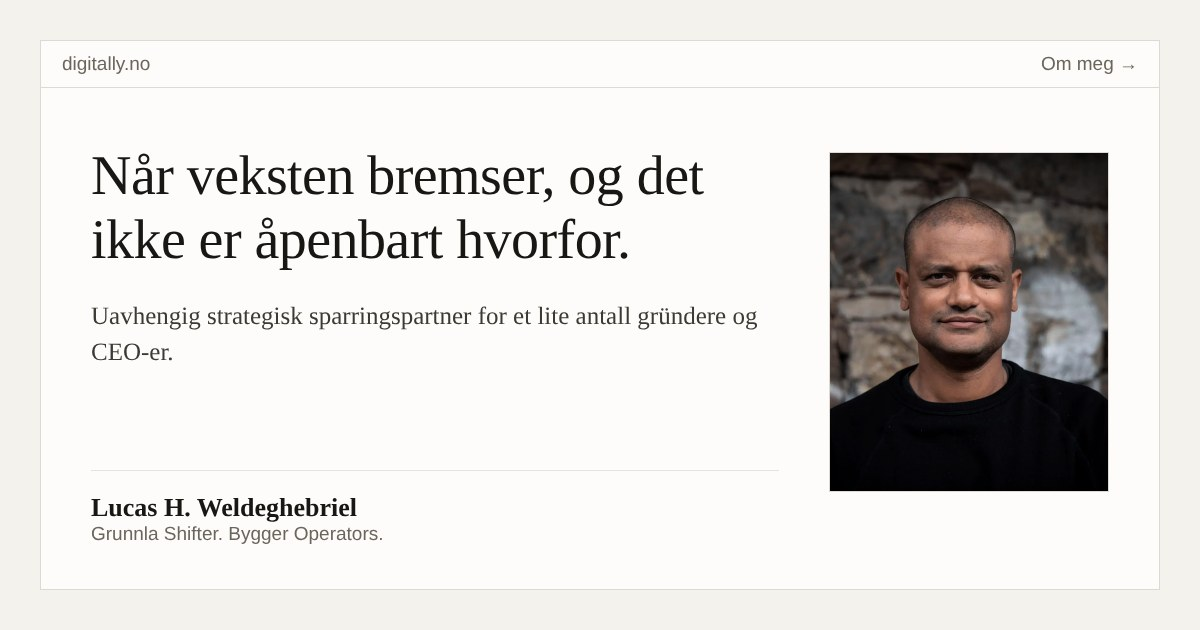
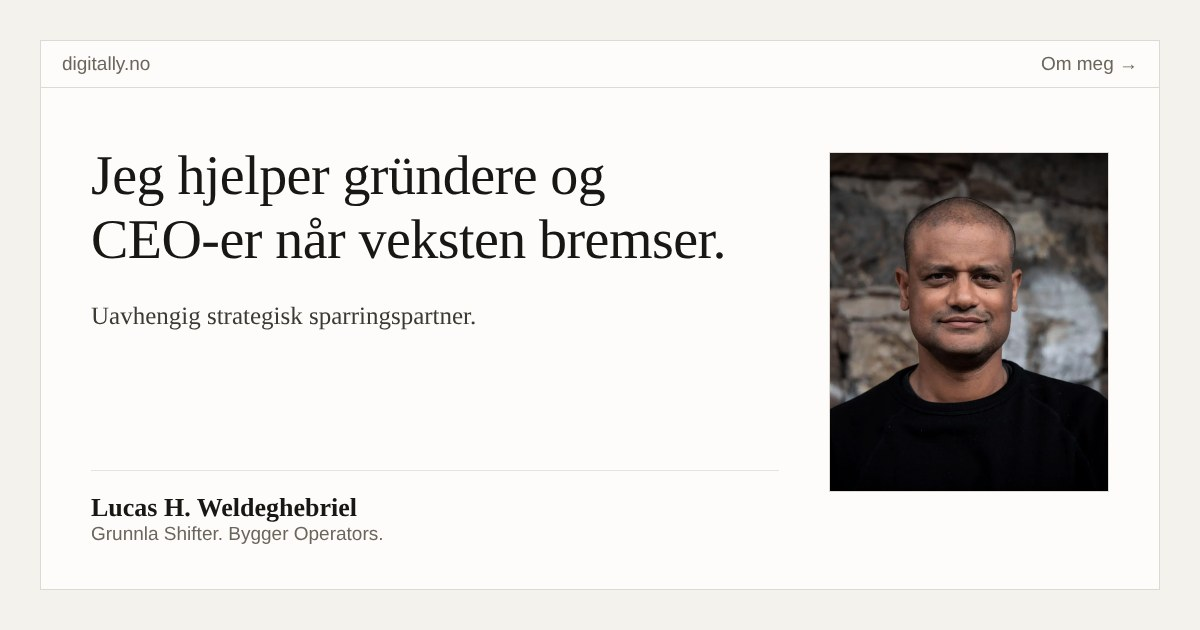
Kortere hovedbudskap: fjern «og det ikke er åpenbart hvorfor»
Claude-Session: https://claude.ai/code/session_01SqsDLbYoQqBs7d4GwddQyp

Changed region(s): [[0.0617, 0.2413, 0.6167, 0.4222], [0.4008, 0.4825, 0.6475, 0.5127], [0.0617, 0.5429, 0.1542, 0.573]]

diff --git a/index.html b/index.html
@@ -4,23 +4,23 @@
 <meta charset="UTF-8">
 <meta name="viewport" content="width=device-width, initial-scale=1">
 <title>Strategisk sparring for gründere og CEO-er | Digitally</title>
-<meta name="description" content="Jeg hjelper gründere og CEO-er når veksten bremser, og det ikke er åpenbart hvorfor. Uavhengig strategisk sparringspartner.">
+<meta name="description" content="Jeg hjelper gründere og CEO-er når veksten bremser. Uavhengig strategisk sparringspartner.">
 <link rel="canonical" href="https://digitally.no/">
 <meta name="robots" content="index, follow">
 <meta property="og:type" content="website">
 <meta property="og:locale" content="nb_NO">
 <meta property="og:site_name" content="Digitally">
 <meta property="og:url" content="https://digitally.no/">
-<meta property="og:title" content="Når veksten bremser, og det ikke er åpenbart hvorfor">
+<meta property="og:title" content="Jeg hjelper gründere og CEO-er når veksten bremser">
 <meta property="og:description" content="Uavhengig strategisk sparringspartner for et lite antall gründere og CEO-er.">
-<meta property="og:image" content="https://digitally.no/img/og-image.jpg?v=2">
+<meta property="og:image" content="https://digitally.no/img/og-image.jpg?v=3">
 <meta property="og:image:width" content="1200">
 <meta property="og:image:height" content="630">
 <meta property="og:image:alt" content="Lucas H. Weldeghebriel – Digitally">
 <meta name="twitter:card" content="summary_large_image">
-<meta name="twitter:title" content="Når veksten bremser, og det ikke er åpenbart hvorfor">
+<meta name="twitter:title" content="Jeg hjelper gründere og CEO-er når veksten bremser">
 <meta name="twitter:description" content="Uavhengig strategisk sparringspartner for et lite antall gründere og CEO-er.">
-<meta name="twitter:image" content="https://digitally.no/img/og-image.jpg?v=2">
+<meta name="twitter:image" content="https://digitally.no/img/og-image.jpg?v=3">
 <style>
   *, *::before, *::after { box-sizing: border-box; }
 
@@ -85,6 +85,7 @@
   }
 
   p { margin: 0 0 22px; }
+  .nobr { white-space: nowrap; }
 
   a { color: var(--blekk); }
   a:hover { color: var(--dempet); }
@@ -147,7 +148,7 @@
 
   <main>
 
-    <h1>Jeg hjelper gründere og CEO-er når veksten bremser, og det ikke er åpenbart hvorfor.</h1>
+    <h1>Jeg hjelper gründere og <span class="nobr">CEO-er</span> når veksten bremser.</h1>
 
     <div class="intro">
       <p>I ti år bygget jeg Shifter, før jeg solgte selskapet til Schibsted i 2024. Gjennom Shifter og nå Operators har jeg gjennomført over 1&nbsp;000 intervjuer med gründere og selskapsledere om hva som fungerte, hva som ikke gjorde det, og hvilke beslutninger som ble avgjørende.</p>
@@ -193,11 +194,11 @@
   "@type": "ProfessionalService",
   "name": "Digitally",
   "url": "https://digitally.no/",
-  "image": "https://digitally.no/img/og-image.jpg?v=2",
+  "image": "https://digitally.no/img/og-image.jpg?v=3",
   "email": "lucas@digitally.no",
   "telephone": "+4798644403",
   "areaServed": "NO",
-  "description": "Uavhengig strategisk sparring for gründere og CEO-er når veksten bremser, og det ikke er åpenbart hvorfor.",
+  "description": "Uavhengig strategisk sparring for gründere og CEO-er når veksten bremser.",
   "founder": {
     "@type": "Person",
     "name": "Lucas H. Weldeghebriel",

diff --git a/om-meg.html b/om-meg.html
@@ -13,11 +13,11 @@
 <meta property="og:url" content="https://digitally.no/om-meg.html">
 <meta property="og:title" content="Om Lucas H. Weldeghebriel – Digitally">
 <meta property="og:description" content="15 år som journalist i VG og Aftenposten. Bygget Shifter i ti år og solgte selskapet til Schibsted i 2024. Uavhengig strategisk sparringspartner for gründere og CEO-er.">
-<meta property="og:image" content="https://digitally.no/img/og-image.jpg?v=2">
+<meta property="og:image" content="https://digitally.no/img/og-image.jpg?v=3">
 <meta property="og:image:width" content="1200">
 <meta property="og:image:height" content="630">
 <meta name="twitter:card" content="summary_large_image">
-<meta name="twitter:image" content="https://digitally.no/img/og-image.jpg?v=2">
+<meta name="twitter:image" content="https://digitally.no/img/og-image.jpg?v=3">
 <style>
   *, *::before, *::after { box-sizing: border-box; }
 
@@ -167,7 +167,7 @@
 
     <p>I dag bygger jeg Operators, en podcast og et nyhetsbrev der jeg intervjuer gründere og selskapsledere om hvordan de faktisk bygger selskapene sine.</p>
 
-    <p>Ved siden av jobber jeg som uavhengig strategisk sparringspartner for et lite antall gründere og CEO-er, når veksten bremser og det ikke er åpenbart hvorfor.</p>
+    <p>Ved siden av jobber jeg som uavhengig strategisk sparringspartner for et lite antall gründere og CEO-er når veksten bremser.</p>
 
     <section>
       <h2>Hva folk sier om samtalene mine.</h2>

diff --git a/anmeldelser.html b/anmeldelser.html
@@ -13,11 +13,11 @@
 <meta property="og:url" content="https://digitally.no/anmeldelser.html">
 <meta property="og:title" content="Anmeldelser av podkasten – Digitally">
 <meta property="og:description" content="Alle anmeldelsene av podkasten, slik lytterne har skrevet dem i Apple Podcasts.">
-<meta property="og:image" content="https://digitally.no/img/og-image.jpg?v=2">
+<meta property="og:image" content="https://digitally.no/img/og-image.jpg?v=3">
 <meta property="og:image:width" content="1200">
 <meta property="og:image:height" content="630">
 <meta name="twitter:card" content="summary_large_image">
-<meta name="twitter:image" content="https://digitally.no/img/og-image.jpg?v=2">
+<meta name="twitter:image" content="https://digitally.no/img/og-image.jpg?v=3">
 <style>
   *, *::before, *::after { box-sizing: border-box; }
 
